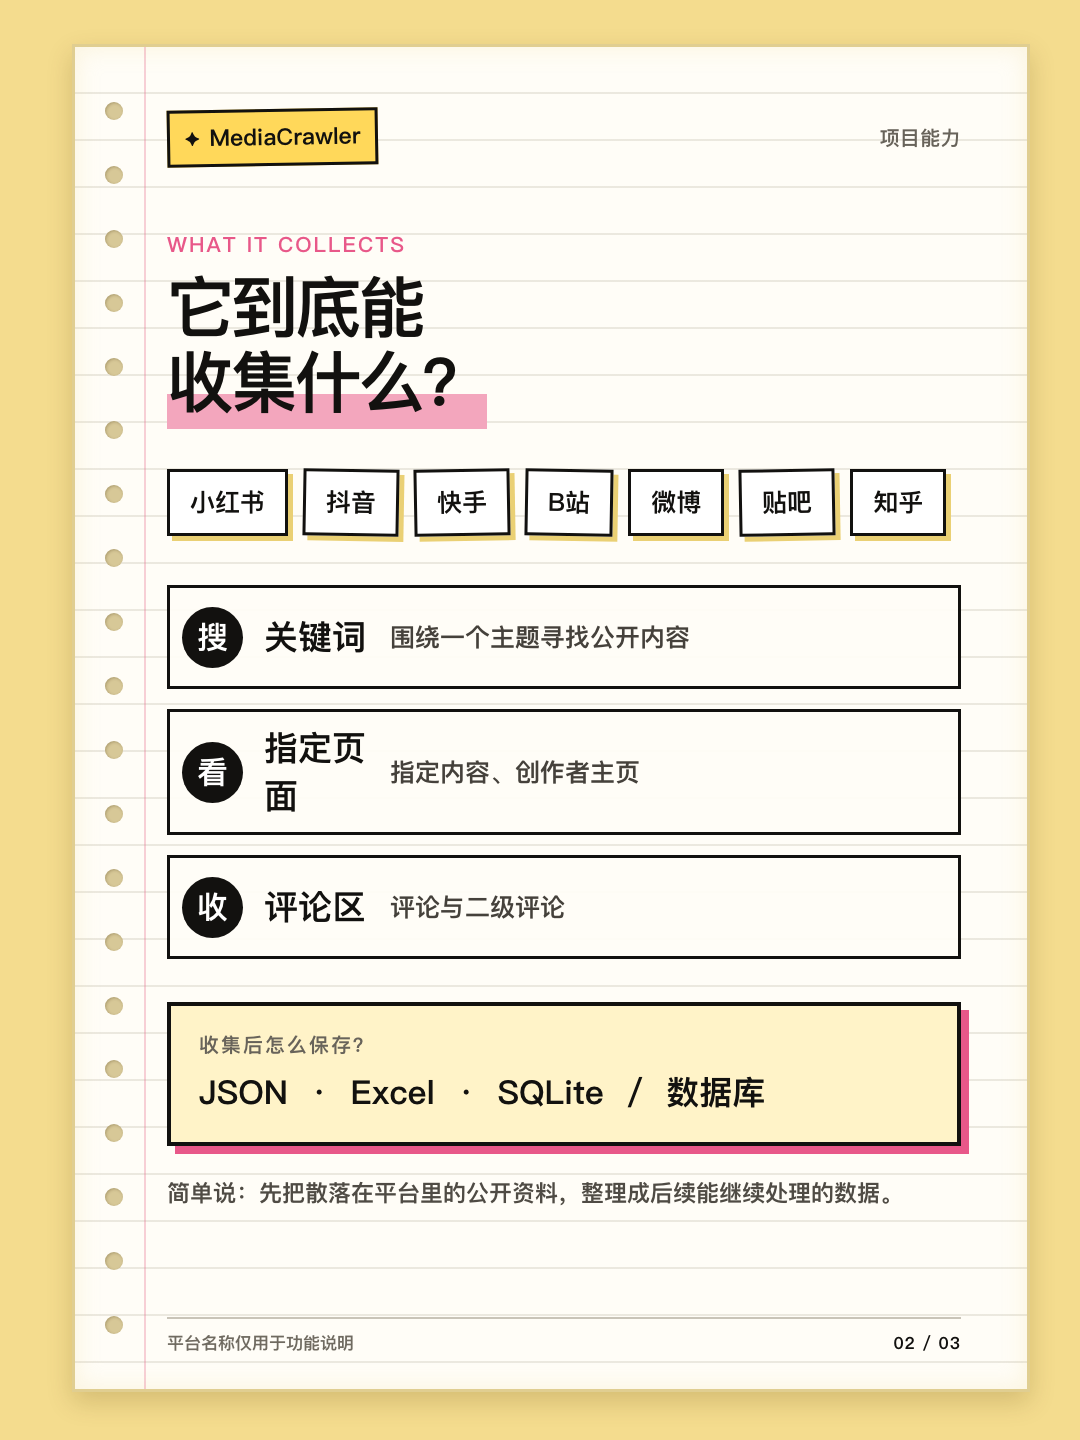
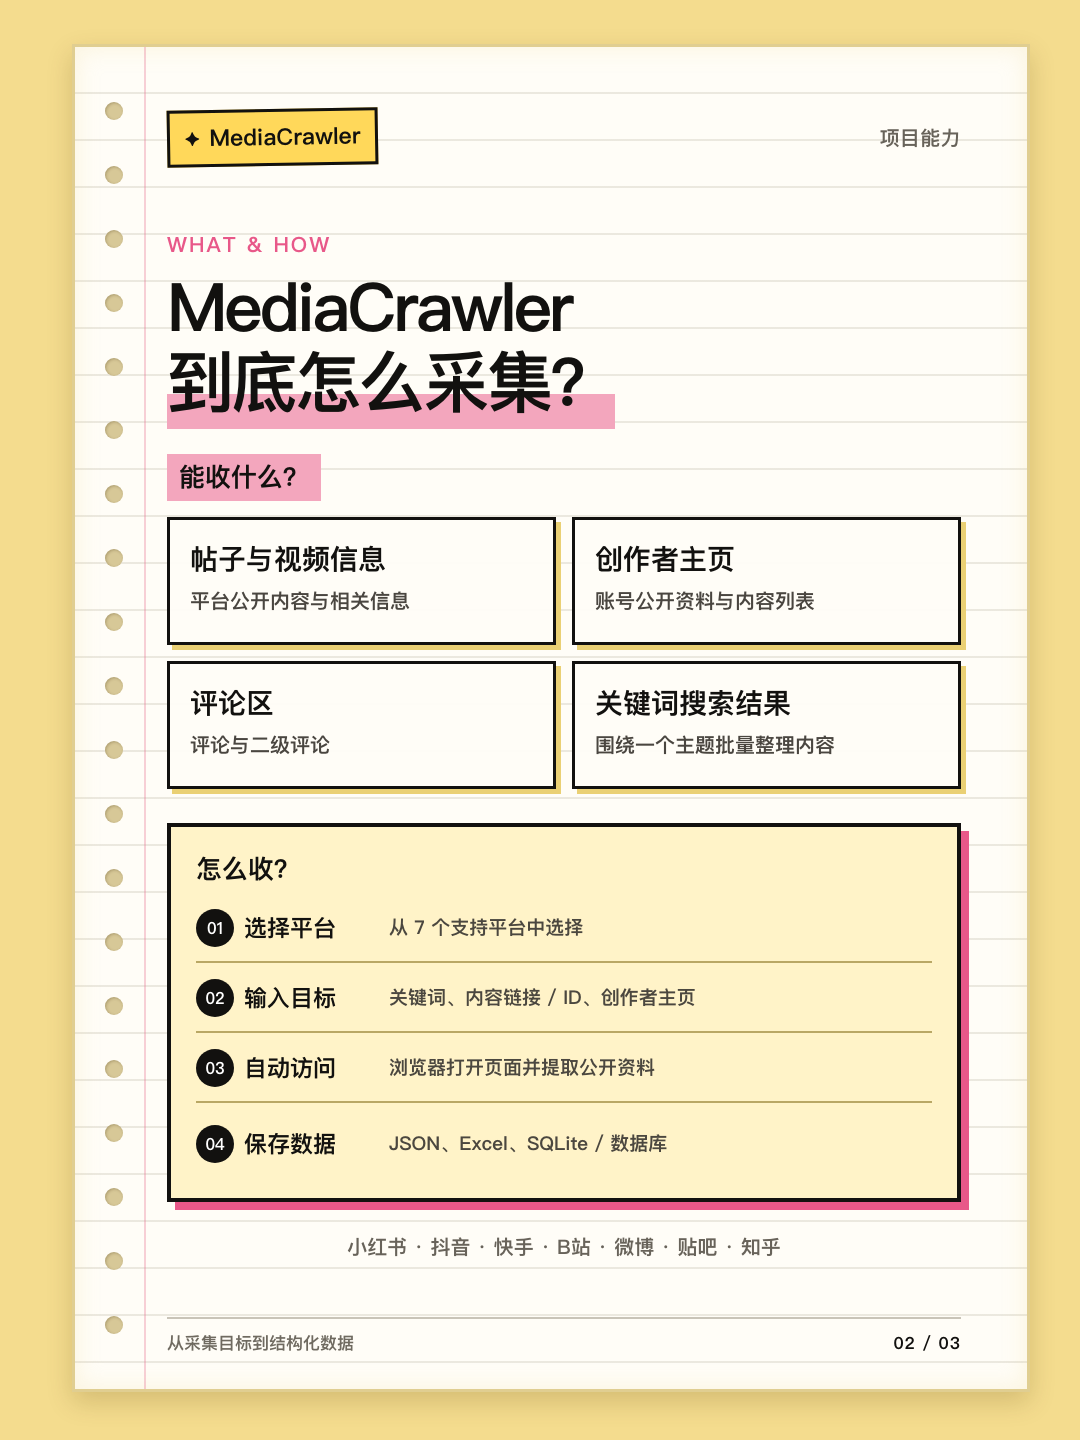
视觉：重做 MediaCrawler 采集能力卡片

Changed region(s): [[0.1528, 0.1562, 0.9167, 0.875], [0.1528, 0.9062, 0.3361, 0.9375]]

diff --git a/projects/issue-6-mediacrawler-ai-data-entry/cards/plan.md b/projects/issue-6-mediacrawler-ai-data-entry/cards/plan.md
@@ -33,14 +33,18 @@
 
 ## 卡片 2：项目能力
 
-- 核心信息：MediaCrawler 能从七个平台收集哪些公开资料。
-- 标题：`它到底能收集什么？`
-- 平台：小红书、抖音、快手、B站、微博、贴吧、知乎；
-- 三组能力：
-  - `搜`：关键词内容；
-  - `看`：指定内容、创作者主页；
-  - `收`：评论、二级评论。
-- 保存格式：JSON、Excel、SQLite / 数据库
+- 核心信息：MediaCrawler 能收集哪些公开资料，以及从输入目标到保存数据的完整采集过程。
+- 标题：`MediaCrawler 到底怎么采集？`
+- 上半部分“能收什么”：
+  - 公开帖子与视频信息；
+  - 创作者主页；
+  - 评论与二级评论；
+  - 关键词搜索结果。
+- 下半部分“怎么收”：
+  1. 选择小红书、抖音、快手、B站、微博、贴吧或知乎；
+  2. 输入关键词、内容链接 / ID 或创作者主页；
+  3. MediaCrawler 通过浏览器自动访问并提取公开资料；
+  4. 保存为 JSON、Excel、SQLite 或数据库。
 - 页码：`02 / 03`
 
 ## 卡片 3：AI 创作工作流
@@ -71,7 +75,7 @@
 - 三张图片文件名、数量、尺寸和计划一致；
 - 首页第一眼说清 AI 为自媒体创作带来的结果，不再以“数据入口”作为主标题；
 - 每张只表达一个核心意思，手机缩略图下标题仍清楚；
-- 七个平台名称无遗漏、无错字；
+- 第 2 张同时说清采集对象和采集步骤，七个平台名称无遗漏、无错字；
 - 第 3 张从采集到创作方向的顺序一眼可读；
 - 底部页码不贴边、不裁切；
 - `cards/output/` 中最终只有三张 PNG。

diff --git a/projects/issue-6-mediacrawler-ai-data-entry/qa.md b/projects/issue-6-mediacrawler-ai-data-entry/qa.md
@@ -1,6 +1,6 @@
 # Issue #6 质量检查
 
-检查时间：2026-07-31T11:58:43+08:00
+检查时间：2026-07-31T14:02:29+08:00
 
 ## 事实与来源
 
@@ -36,7 +36,10 @@
 - [x] 三张图片均已缩放为 `360×480` 手机预览，并通过三图总览检查；
 - [x] 首页第一视觉中心为“让 AI 主导你的自媒体创作方向”，`MediaCrawler` 作为工具识别层；
 - [x] 首页直接说明“找痛点、挖选题、看趋势”，没有继续使用抽象的“数据入口”主标题；
-- [x] 第 2 张七个平台名称齐全，“搜 / 看 / 收”三组能力与保存格式清楚；
+- [x] 第 2 张上半部分清楚列出帖子与视频信息、创作者主页、评论与二级评论、关键词搜索结果；
+- [x] 第 2 张下半部分清楚说明选择平台、输入目标、浏览器自动访问、保存数据四个步骤；
+- [x] 第 2 张保留关键词、内容链接 / ID、创作者主页三类输入，以及 JSON、Excel、SQLite / 数据库四类保存方式；
+- [x] 第 2 张七个平台名称齐全，在 `360×480` 手机预览下仍能区分“能收什么”和“怎么收”；
 - [x] 第 3 张四步 AI 创作工作流顺序清楚，并列出选题清单、用户痛点、内容角度和创作 Brief；
 - [x] 原第 4 张能力边界卡已删除；
 - [x] 三张均无文字溢出、遮挡或错误裁切，四周安全边距和 `01 / 03` 至 `03 / 03` 页码完整；

diff --git a/projects/issue-6-mediacrawler-ai-data-entry/manifest.md b/projects/issue-6-mediacrawler-ai-data-entry/manifest.md
@@ -7,11 +7,11 @@
 - 下游文本模型：未调用；研究与写作由 Codex 基于可追溯来源完成
 - 下游图片模型：未调用；三张卡片采用确定性 HTML/CSS 渲染
 - 下游视频模型：未调用；静态图文不进入视频链路
-- 已完成：研究与来源核验、三卡 `brief.md` 与 `cards/plan.md`、结果导向配文、三张最终 PNG、逐张原图检查、手机缩略图与三图总览检查、`qa.md`
+- 已完成：研究与来源核验、三卡 `brief.md` 与 `cards/plan.md`、结果导向配文、按 A 方案重做的第 2 张、三张最终 PNG、逐张原图检查、手机缩略图与三图总览检查、`qa.md`
 - 待完成：无
 - 失败项：无
-- 下一步：等待用户审阅三图内容包
-- 最后核验时间：2026-07-31T11:58:43+08:00
+- 下一步：等待用户审阅重做后的第 2 张
+- 最后核验时间：2026-07-31T14:02:29+08:00
 
 ## 交付路径
 
